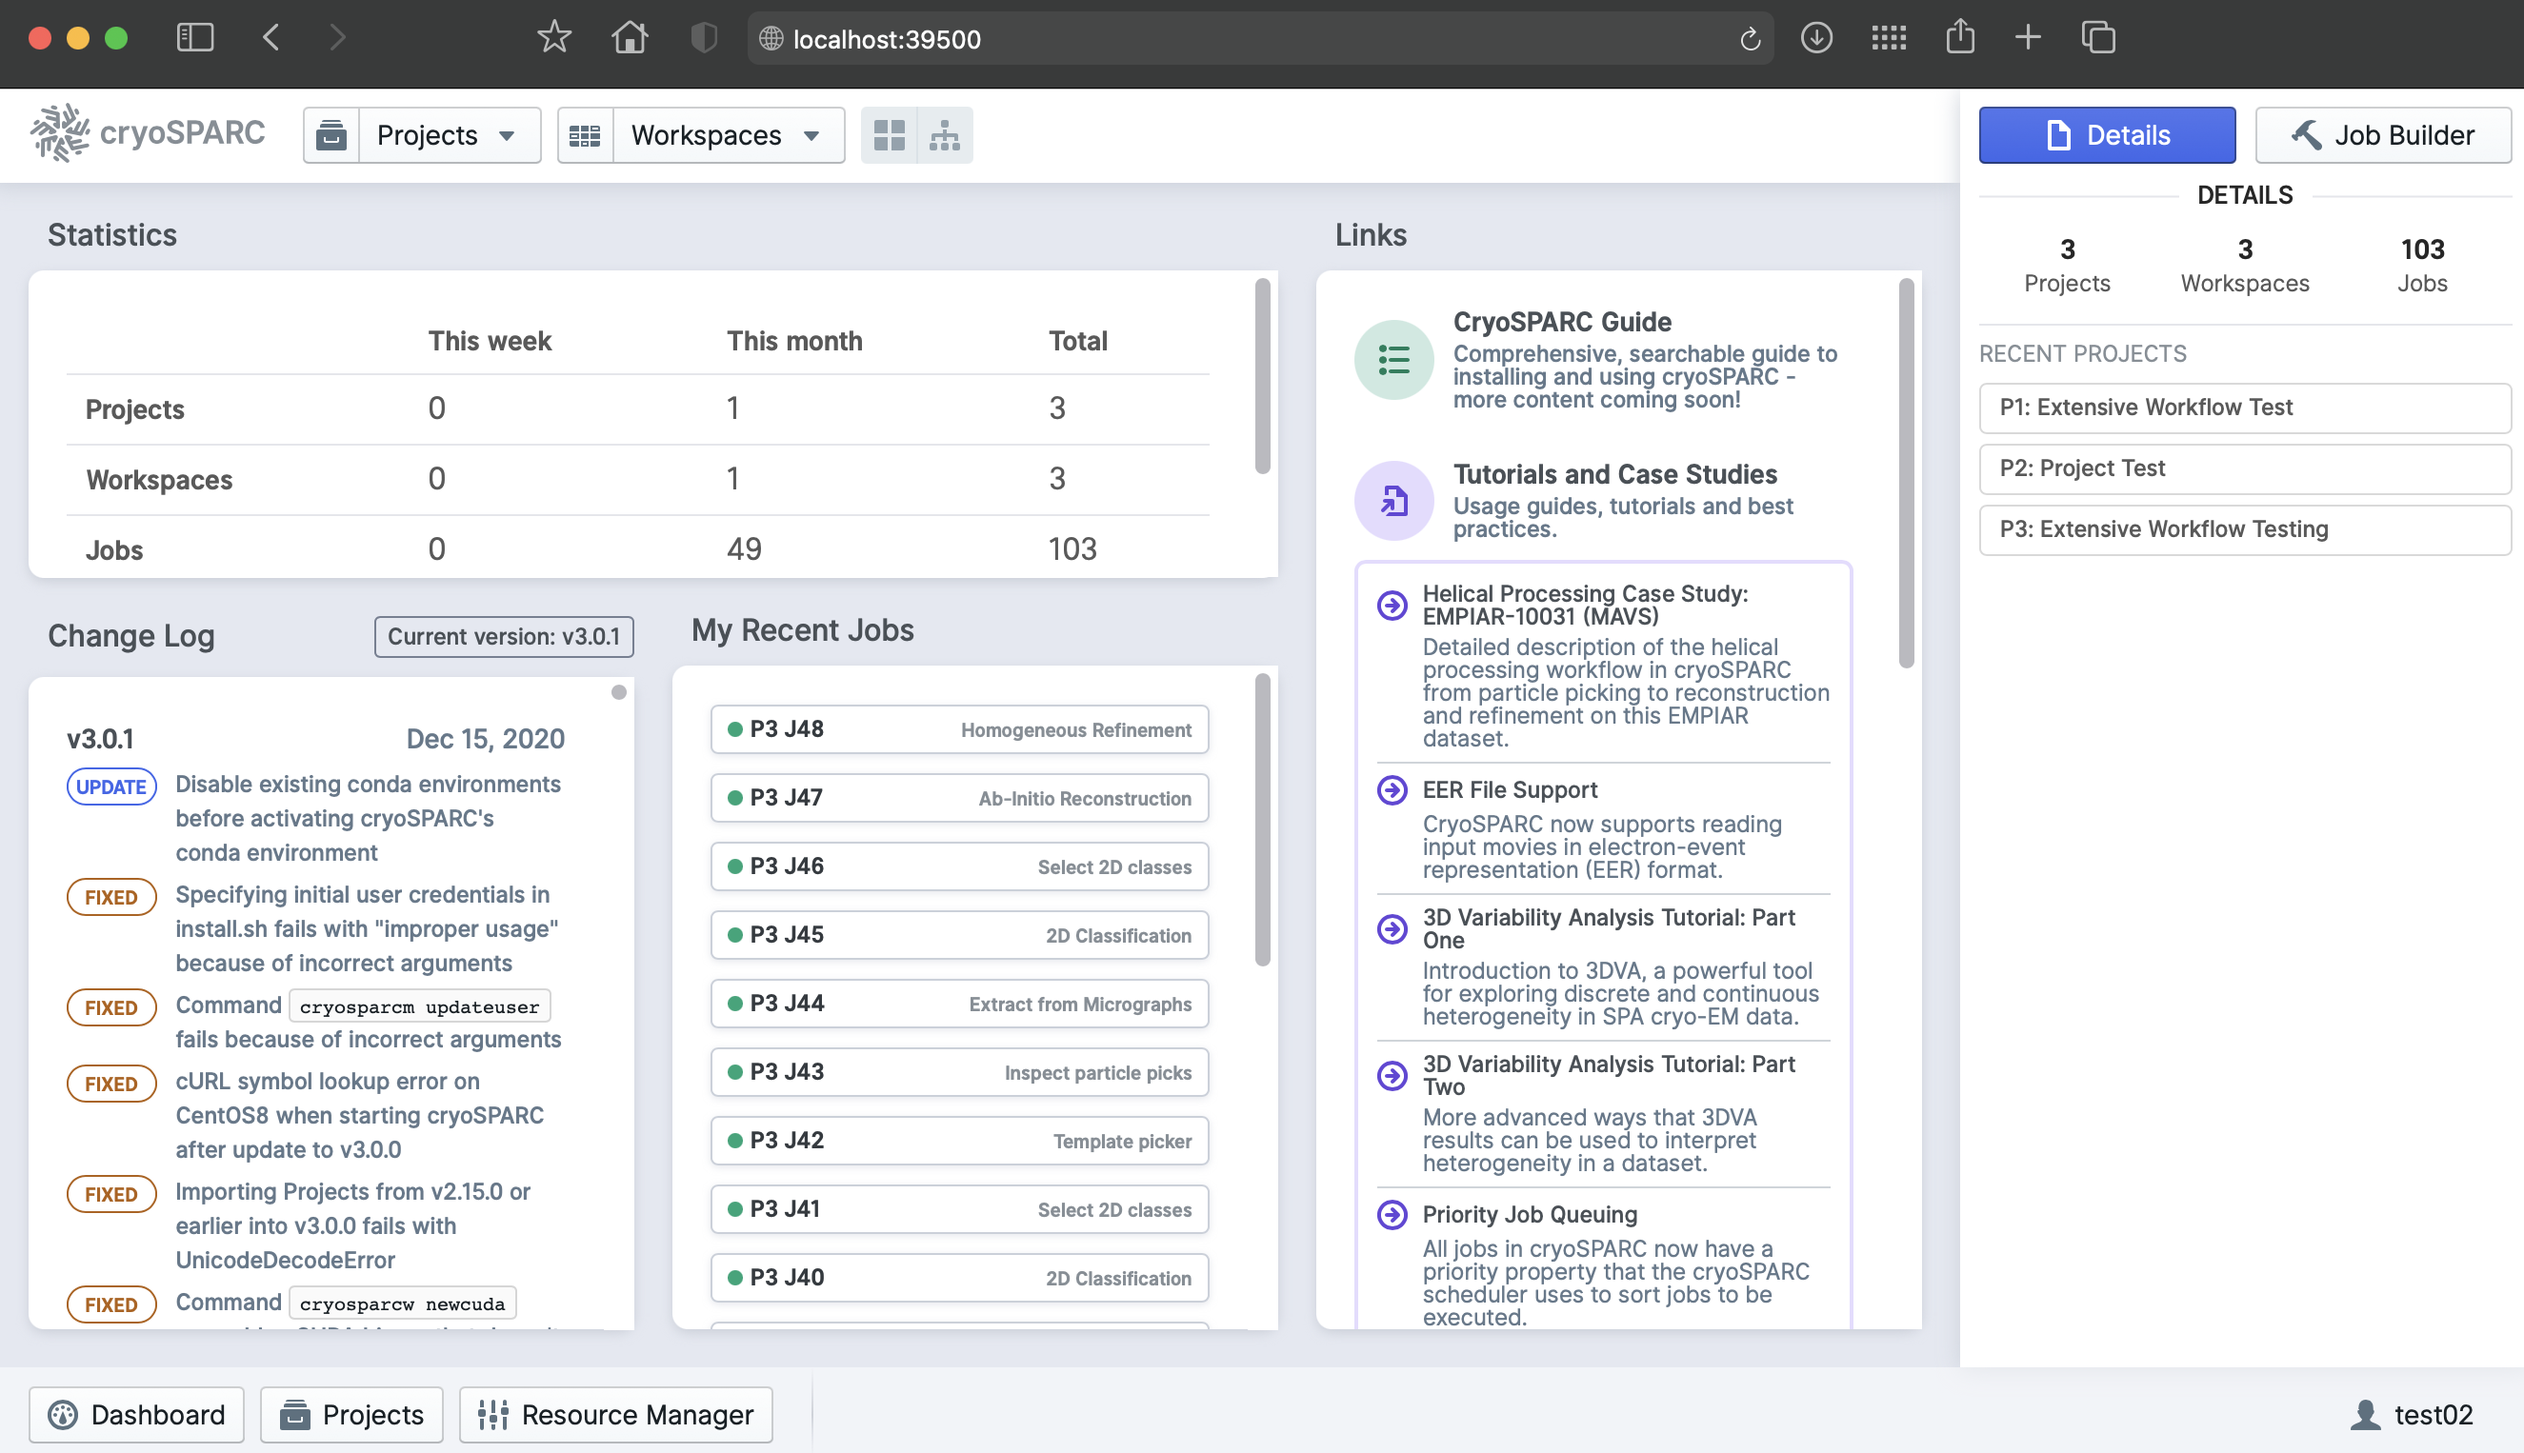
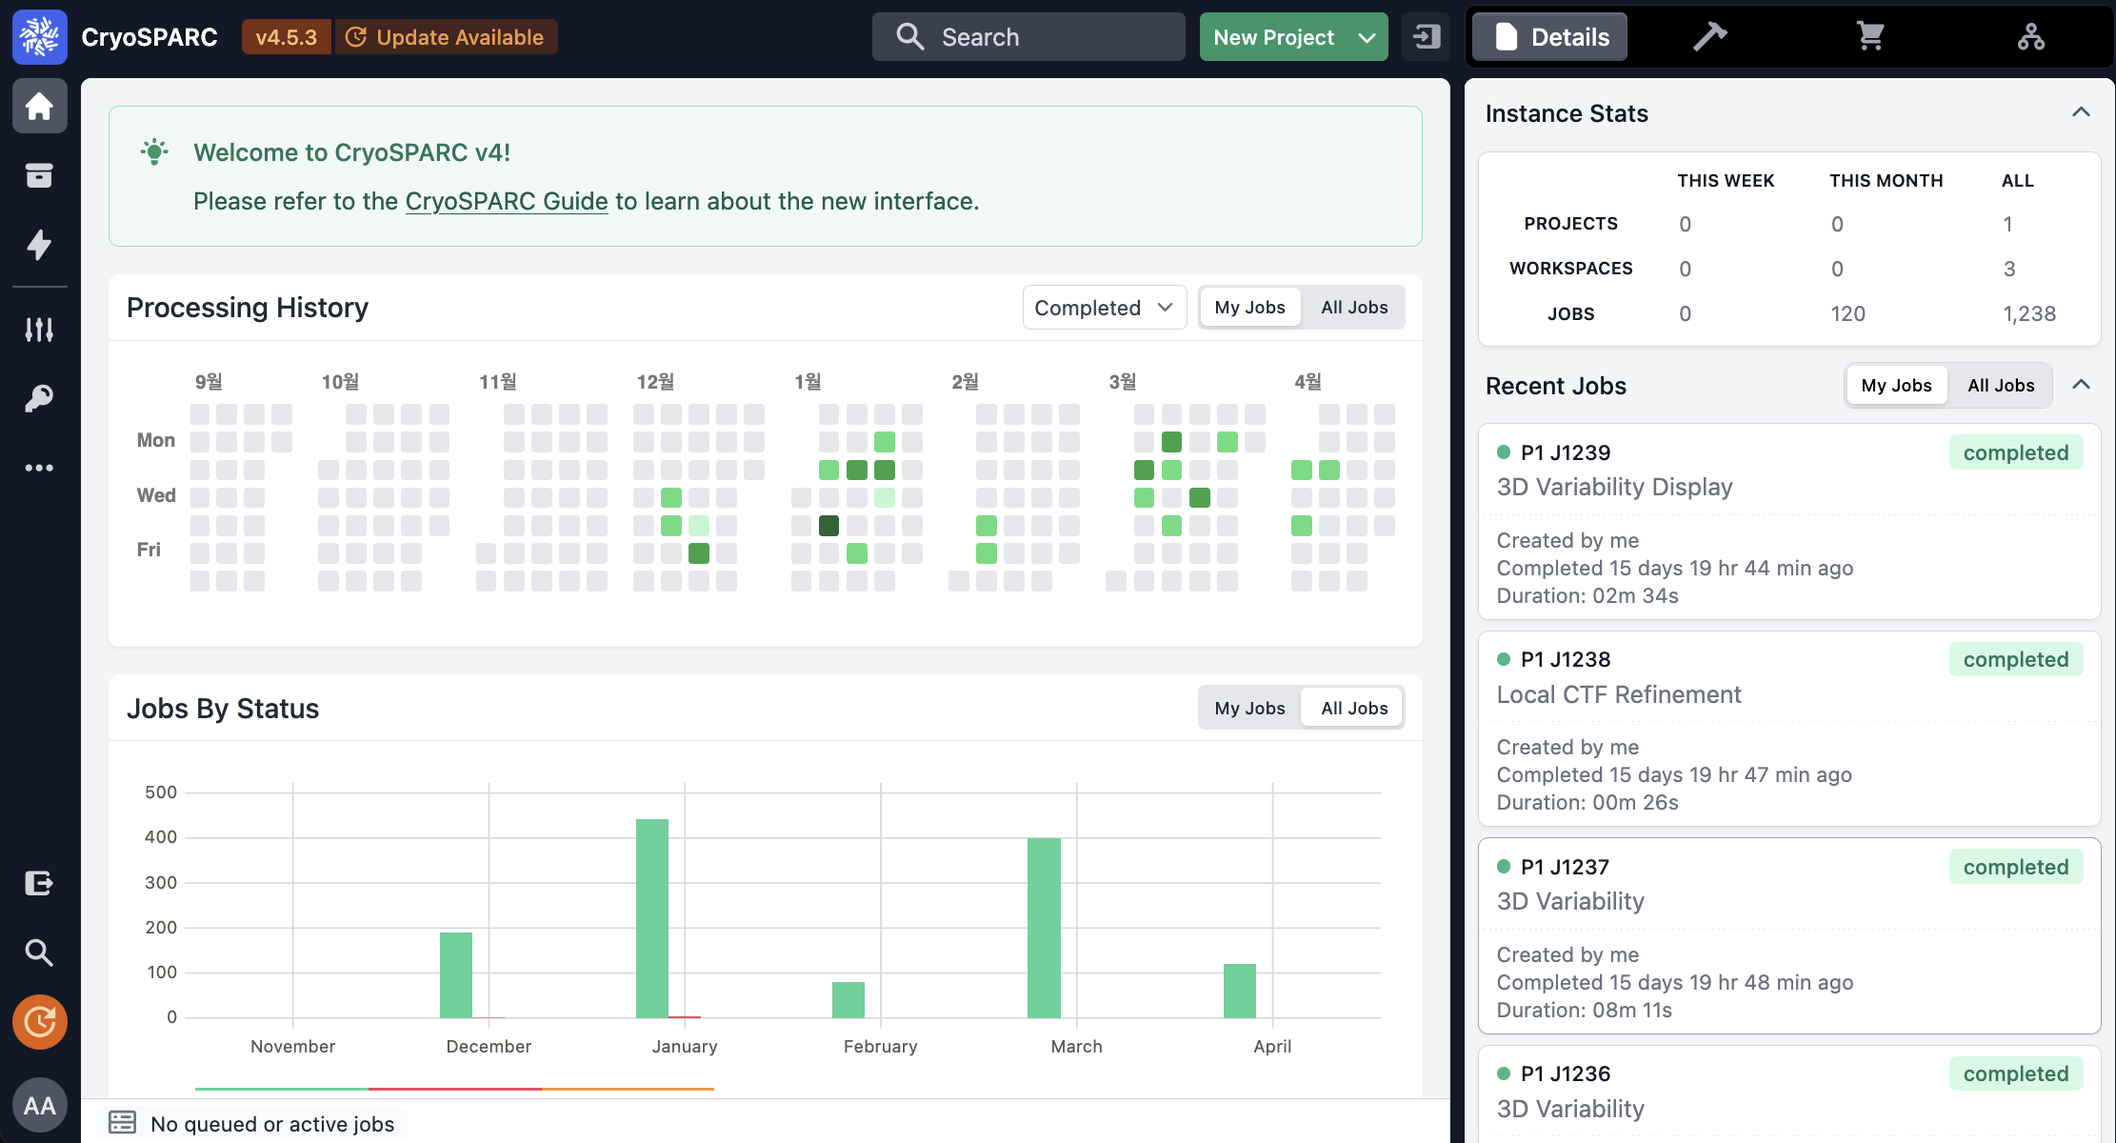
updated

diff --git a/docs/apps/cryosparc.md b/docs/apps/cryosparc.md
@@ -287,9 +287,9 @@ Given e-mail and password, users can login to CryoSPARC web interfaces.
 ![cryosparc-project](../images/cryosparc-project.png)
 
 
-### CryoSPARC cluster (lane)
+### CryoSPARC lane information
 
-![cryosparc-cluster](../images/cryosparc-cluster.png)
+![cryosparc-cluster](../images/cryosparc_lane_info.png)
 
 ???+ note
 
